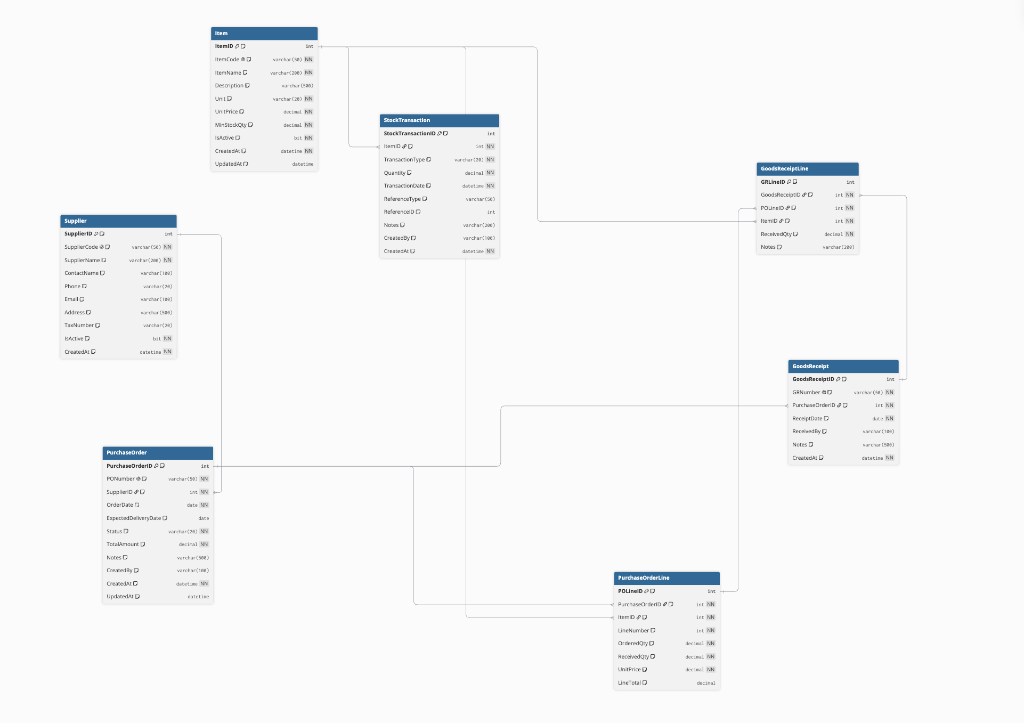
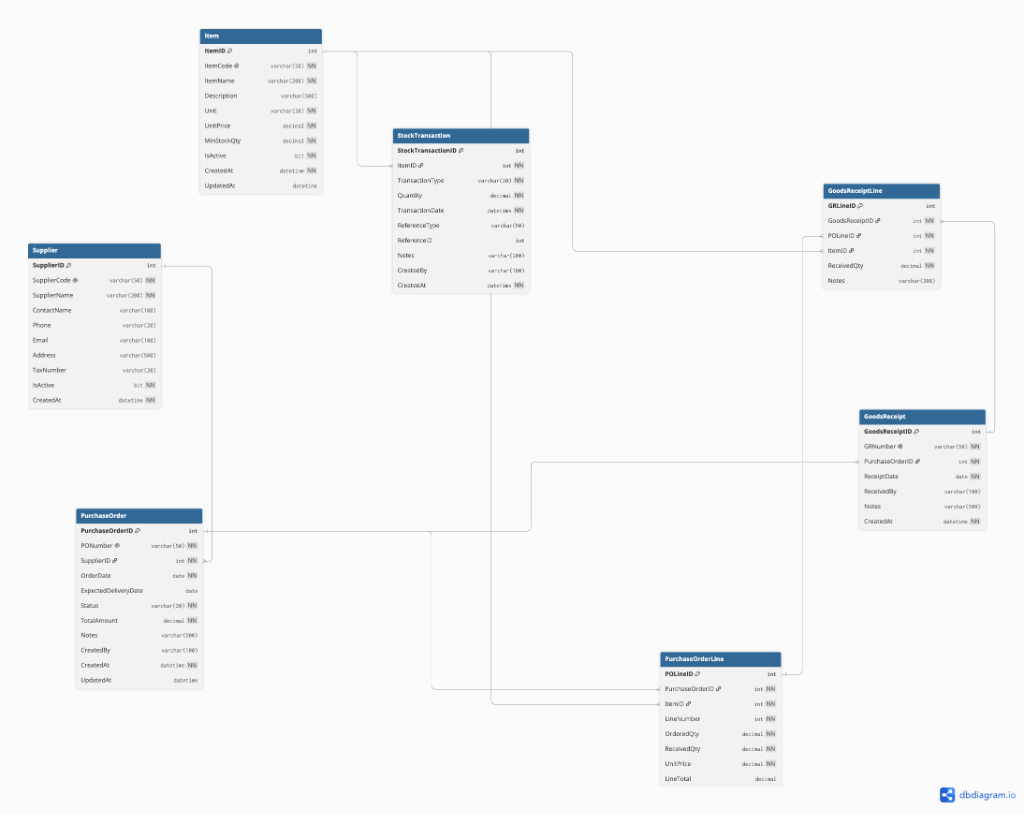
dbdiagram.io yüksek çözünürlüklü ER diyagramı ve araç kullanımı bildirimi güncellendi

diff --git a/README.md b/README.md
@@ -88,3 +88,11 @@ Yapay bir şablon yerine; **staj sürecimde caniasERP ile entegre olarak gelişt
 ![Dashboard Ekran 2](dashboard_staj_2.png)
 
 * Dashboard Detay Dokümanı: [`bonus_dashboard_tasarim.md`](bonus_dashboard_tasarim.md)
+
+---
+
+## 🛠 Araç Kullanımı ve Teknik Notlar
+
+* **Tasarım ve Modelleme:** dbdiagram.io, SQL Server (T-SQL), Markdown.
+* **Yapay Zeka Bildirimi:** Ödev yönergesi doğrultusunda; çalışma sürecinde **Google Gemini** ve **Anthropic Claude** araçlarından yalnızca temel seviyede asistanlık amacıyla (SQL sözdizimi kontrolleri, yazım/imla denetimi ve dokümantasyon formatlama gibi rutin işlerde) faydalanılmıştır. 
+* **Tasarım Kararları:** Tablo ilişkileri, iş mantığı kuralları, destek senaryosundaki kök neden çözüm yaklaşımı ve dashboard ekranları bizzat kendi staj tecrübelerim ve teknik kararlarımla oluşturulmuştur.
